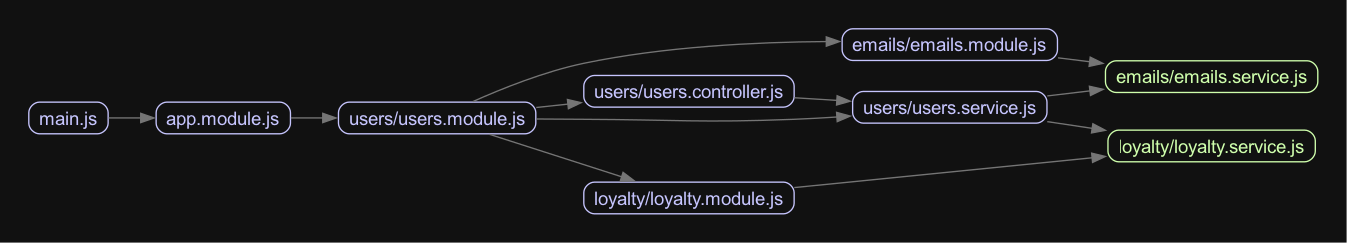
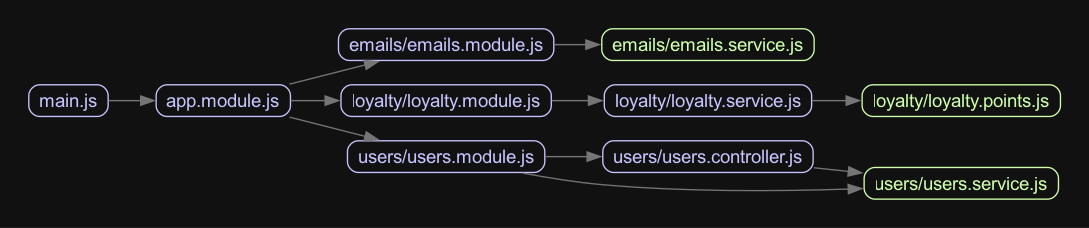
chore: Setup example with events emitter

Changed region(s): [[0.0, 0.0, 1.0, 1.0], [0.281, 0.307, 0.3122, 0.3377]]

diff --git a/src/loyalty/loyalty.service.ts b/src/loyalty/loyalty.service.ts
@@ -1,4 +1,6 @@
 import { Injectable } from '@nestjs/common';
+import { OnEvent } from '@nestjs/event-emitter';
+import { LOYALTY_POINTS } from './loyalty.points';
 
 @Injectable()
 export class LoyaltyService {
@@ -10,5 +12,36 @@ export class LoyaltyService {
     points: number;
   }): Promise<void> {
     console.log(`🏆 [LoyaltyService] Added ${points} points to user ${userId}`);
+  }
+
+  @OnEvent('users.created', {
+    /**
+     * If "true", prepends (instead of append) the given listener to the array of listeners.
+     *
+     * @see https://github.com/EventEmitter2/EventEmitter2#emitterprependlistenerevent-listener-options
+     *
+     * @default false
+     */
+    // prependListener: false,
+    /**
+     * If "true", the onEvent callback will not throw an error while handling the event. Otherwise, if "false" it will throw an error.
+     *
+     * @default true
+     */
+    // suppressErrors: false,
+    // Whether to execute the listener asynchronously (default: false)
+    // async: false,
+    // Whether to wrap the listener in a Promise (default: false)
+    // promisify: false,
+    // Whether to execute the listener on the next tick (default: false)
+    // nextTick: false,
+    // Whether to transform the listener into an object with off() method (default: false)
+    // objectify: false,
+  })
+  async handleUserCreated(event: { id: string }) {
+    await this.addPoints({
+      userId: event.id,
+      points: LOYALTY_POINTS.REGISTRATION,
+    });
   }
 }

diff --git a/src/users/users.service.ts b/src/users/users.service.ts
@@ -1,8 +1,6 @@
 import { Injectable } from '@nestjs/common';
+import { EventEmitter2 } from '@nestjs/event-emitter';
 import { randomUUID } from 'crypto';
-import { EmailsService } from 'src/emails/emails.service';
-import { LOYALTY_POINTS } from 'src/loyalty/loyalty.points';
-import { LoyaltyService } from 'src/loyalty/loyalty.service';
 
 export class CreateUserDto {
   email: string;
@@ -14,23 +12,17 @@ export class UserDto {
 
 @Injectable()
 export class UsersService {
-  constructor(
-    private readonly emailService: EmailsService,
-    private readonly loyaltyService: LoyaltyService,
-  ) {}
+  constructor(private readonly eventEmitter: EventEmitter2) {}
 
   async createUser({ email }: CreateUserDto): Promise<UserDto> {
     console.log(`----------------------------------------------`);
     const userId = randomUUID();
     console.log(`👤 [UsersService] Created user ${userId}`);
 
-    // Send welcome email
-    await this.emailService.sendWelcomeEmail({ email });
-
-    // Provide points for registration
-    await this.loyaltyService.addPoints({
-      userId,
-      points: LOYALTY_POINTS.REGISTRATION,
+    // Emit user created event
+    await this.eventEmitter.emitAsync('users.created', {
+      email,
+      id: userId,
     });
 
     console.log(`----------------------------------------------`);

diff --git a/src/app.module.ts b/src/app.module.ts
@@ -1,7 +1,30 @@
 import { Module } from '@nestjs/common';
 import { UsersModule } from './users/users.module';
+import { EventEmitterModule } from '@nestjs/event-emitter';
+import { EmailsModule } from './emails/emails.module';
+import { LoyaltyModule } from './loyalty/loyalty.module';
 
 @Module({
-  imports: [UsersModule],
+  imports: [
+    UsersModule,
+    EmailsModule,
+    LoyaltyModule,
+    EventEmitterModule.forRoot({
+      // set this to `true` to use wildcards
+      wildcard: false,
+      // the delimiter used to segment namespaces
+      delimiter: '.',
+      // set this to `true` if you want to emit the newListener event
+      newListener: false,
+      // set this to `true` if you want to emit the removeListener event
+      removeListener: false,
+      // the maximum amount of listeners that can be assigned to an event
+      maxListeners: 10,
+      // show event name in memory leak message when more than maximum amount of listeners is assigned
+      verboseMemoryLeak: false,
+      // disable throwing uncaughtException if an error event is emitted and it has no listeners
+      ignoreErrors: false,
+    }),
+  ],
 })
 export class AppModule {}

diff --git a/src/emails/emails.service.ts b/src/emails/emails.service.ts
@@ -1,8 +1,14 @@
 import { Injectable } from '@nestjs/common';
+import { OnEvent } from '@nestjs/event-emitter';
 
 @Injectable()
 export class EmailsService {
   async sendWelcomeEmail({ email }: { email: string }): Promise<void> {
     console.log(`📧 [EmailsService] Welcome Email sent to ${email}`);
+  }
+
+  @OnEvent('users.created')
+  async handleUserCreated(event: { email: string }) {
+    await this.sendWelcomeEmail({ email: event.email });
   }
 }

diff --git a/src/users/users.module.ts b/src/users/users.module.ts
@@ -1,11 +1,8 @@
 import { Module } from '@nestjs/common';
 import { UsersService } from './users.service';
 import { UsersController } from './users.controller';
-import { EmailsModule } from 'src/emails/emails.module';
-import { LoyaltyModule } from 'src/loyalty/loyalty.module';
 
 @Module({
-  imports: [EmailsModule, LoyaltyModule],
   providers: [UsersService],
   controllers: [UsersController],
 })

diff --git a/README.md b/README.md
@@ -1,99 +1,22 @@
-<p align="center">
-  <a href="http://nestjs.com/" target="blank"><img src="https://nestjs.com/img/logo-small.svg" width="120" alt="Nest Logo" /></a>
-</p>
+This project is a NestJS application that demonstrates event-driven architecture using the `@nestjs/event-emitter` package.
 
-[circleci-image]: https://img.shields.io/circleci/build/github/nestjs/nest/master?token=abc123def456
-[circleci-url]: https://circleci.com/gh/nestjs/nest
+#### Links:
+- https://docs.nestjs.com/techniques/events
+- https://github.com/EventEmitter2/EventEmitter2#emitterprependlistenerevent-listener-options
 
-  <p align="center">A progressive <a href="http://nodejs.org" target="_blank">Node.js</a> framework for building efficient and scalable server-side applications.</p>
-    <p align="center">
-<a href="https://www.npmjs.com/~nestjscore" target="_blank"><img src="https://img.shields.io/npm/v/@nestjs/core.svg" alt="NPM Version" /></a>
-<a href="https://www.npmjs.com/~nestjscore" target="_blank"><img src="https://img.shields.io/npm/l/@nestjs/core.svg" alt="Package License" /></a>
-<a href="https://www.npmjs.com/~nestjscore" target="_blank"><img src="https://img.shields.io/npm/dm/@nestjs/common.svg" alt="NPM Downloads" /></a>
-<a href="https://circleci.com/gh/nestjs/nest" target="_blank"><img src="https://img.shields.io/circleci/build/github/nestjs/nest/master" alt="CircleCI" /></a>
-<a href="https://coveralls.io/github/nestjs/nest?branch=master" target="_blank"><img src="https://coveralls.io/repos/github/nestjs/nest/badge.svg?branch=master#9" alt="Coverage" /></a>
-<a href="https://discord.gg/G7Qnnhy" target="_blank"><img src="https://img.shields.io/badge/discord-online-brightgreen.svg" alt="Discord"/></a>
-<a href="https://opencollective.com/nest#backer" target="_blank"><img src="https://opencollective.com/nest/backers/badge.svg" alt="Backers on Open Collective" /></a>
-<a href="https://opencollective.com/nest#sponsor" target="_blank"><img src="https://opencollective.com/nest/sponsors/badge.svg" alt="Sponsors on Open Collective" /></a>
-  <a href="https://paypal.me/kamilmysliwiec" target="_blank"><img src="https://img.shields.io/badge/Donate-PayPal-ff3f59.svg" alt="Donate us"/></a>
-    <a href="https://opencollective.com/nest#sponsor"  target="_blank"><img src="https://img.shields.io/badge/Support%20us-Open%20Collective-41B883.svg" alt="Support us"></a>
-  <a href="https://twitter.com/nestframework" target="_blank"><img src="https://img.shields.io/twitter/follow/nestframework.svg?style=social&label=Follow" alt="Follow us on Twitter"></a>
-</p>
-  <!--[![Backers on Open Collective](https://opencollective.com/nest/backers/badge.svg)](https://opencollective.com/nest#backer)
-  [![Sponsors on Open Collective](https://opencollective.com/nest/sponsors/badge.svg)](https://opencollective.com/nest#sponsor)-->
+## Core Functionality
 
-## Description
+The project consists of three main modules:
 
-[Nest](https://github.com/nestjs/nest) framework TypeScript starter repository.
+- **Users Module**: Manages user creation and related operations.
+- **Loyalty Module**: Handles loyalty points and rewards.
+- **Emails Module**: Manages email sending for welcome emails.
 
-## Project setup
+## Event Flow
 
-```bash
-$ yarn install
-```
+When a new user is created:
 
-## Compile and run the project
-
-```bash
-# development
-$ yarn run start
-
-# watch mode
-$ yarn run start:dev
-
-# production mode
-$ yarn run start:prod
-```
-
-## Run tests
-
-```bash
-# unit tests
-$ yarn run test
-
-# e2e tests
-$ yarn run test:e2e
-
-# test coverage
-$ yarn run test:cov
-```
-
-## Deployment
-
-When you're ready to deploy your NestJS application to production, there are some key steps you can take to ensure it runs as efficiently as possible. Check out the [deployment documentation](https://docs.nestjs.com/deployment) for more information.
-
-If you are looking for a cloud-based platform to deploy your NestJS application, check out [Mau](https://mau.nestjs.com), our official platform for deploying NestJS applications on AWS. Mau makes deployment straightforward and fast, requiring just a few simple steps:
-
-```bash
-$ yarn install -g mau
-$ mau deploy
-```
-
-With Mau, you can deploy your application in just a few clicks, allowing you to focus on building features rather than managing infrastructure.
-
-## Resources
-
-Check out a few resources that may come in handy when working with NestJS:
-
-- Visit the [NestJS Documentation](https://docs.nestjs.com) to learn more about the framework.
-- For questions and support, please visit our [Discord channel](https://discord.gg/G7Qnnhy).
-- To dive deeper and get more hands-on experience, check out our official video [courses](https://courses.nestjs.com/).
-- Deploy your application to AWS with the help of [NestJS Mau](https://mau.nestjs.com) in just a few clicks.
-- Visualize your application graph and interact with the NestJS application in real-time using [NestJS Devtools](https://devtools.nestjs.com).
-- Need help with your project (part-time to full-time)? Check out our official [enterprise support](https://enterprise.nestjs.com).
-- To stay in the loop and get updates, follow us on [X](https://x.com/nestframework) and [LinkedIn](https://linkedin.com/company/nestjs).
-- Looking for a job, or have a job to offer? Check out our official [Jobs board](https://jobs.nestjs.com).
-
-## Support
-
-Nest is an MIT-licensed open source project. It can grow thanks to the sponsors and support by the amazing backers. If you'd like to join them, please [read more here](https://docs.nestjs.com/support).
-
-## Stay in touch
-
-- Author - [Kamil Myśliwiec](https://twitter.com/kammysliwiec)
-- Website - [https://nestjs.com](https://nestjs.com/)
-- Twitter - [@nestframework](https://twitter.com/nestframework)
-
-## License
-
-Nest is [MIT licensed](https://github.com/nestjs/nest/blob/master/LICENSE).
+1. The `UsersService` emits a `users.created event`
+2. Both `EmailsService` and `LoyaltyService` listen for this event using @OnEvent decorator
+3. `EmailsService` sends a welcome email
+4. `LoyaltyService` adds registration points
